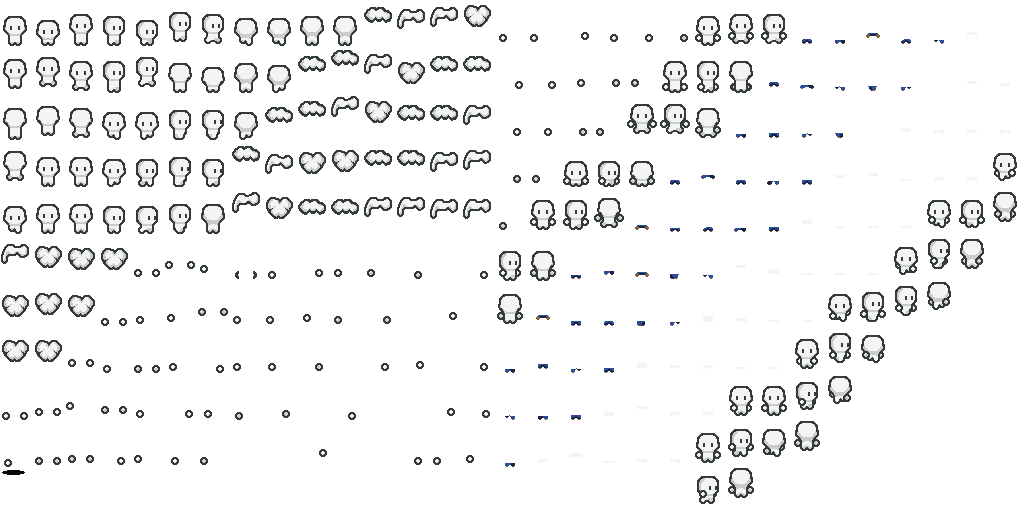
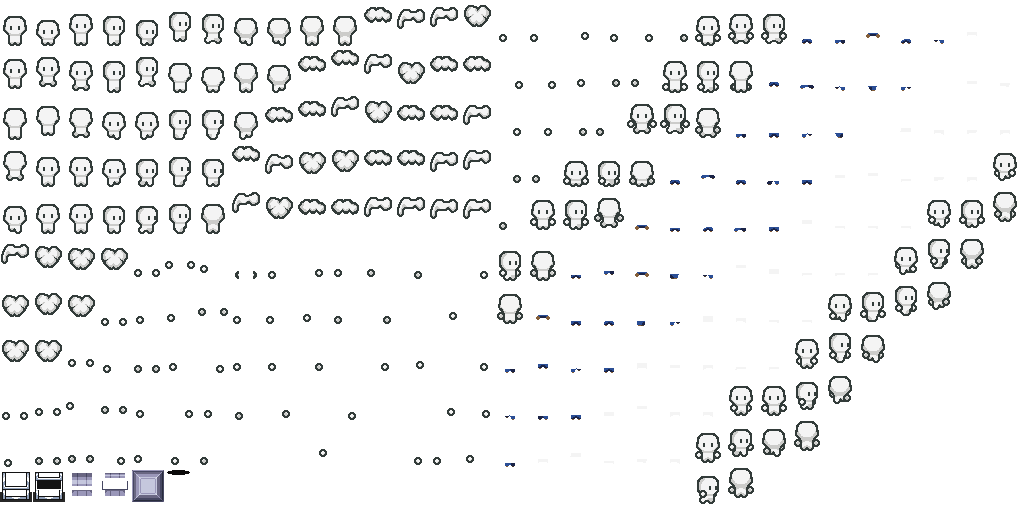
Treasure sprites and colors, wall sprite

Changed region(s): [[0.0, 0.9062, 0.1875, 1.0]]

diff --git a/PitHero/GameConfig.cs b/PitHero/GameConfig.cs
@@ -118,6 +118,14 @@ namespace PitHero
         // Entity names
         public const string EntityHero = "Hero";
 
+        // Treasure Colors
+        public static readonly Color TREASURE_SHADE_1 = new Color(140, 91, 62); //Brown
+        public static readonly Color TREASURE_SHADE_2 = new Color(44, 94, 26);  //Green
+        public static readonly Color TREASURE_SHADE_3 = new Color(43, 78, 149); //Blue
+        public static readonly Color TREASURE_SHADE_4 = new Color(144, 82, 188); //Purple
+        public static readonly Color TREASURE_SHADE_5 = new Color(203, 129, 22); //Gold
+
+        //Hero Paperdoll Colors
         public static readonly Color SKIN_SHADE_1 = new Color(251, 200, 178); //Applies to body and hands
         public static readonly Color SKIN_SHADE_2 = new Color(140, 91, 62);
         public static readonly Color SKIN_SHADE_3 = new Color(89, 207, 147);
